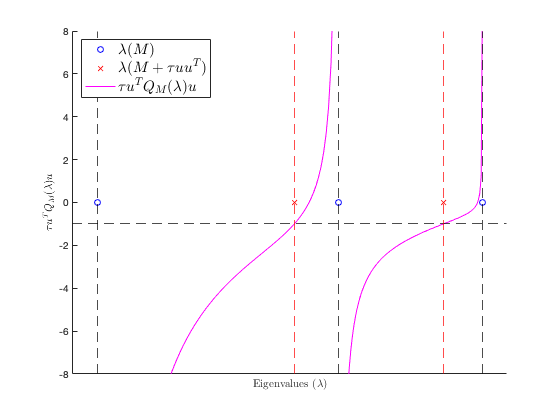
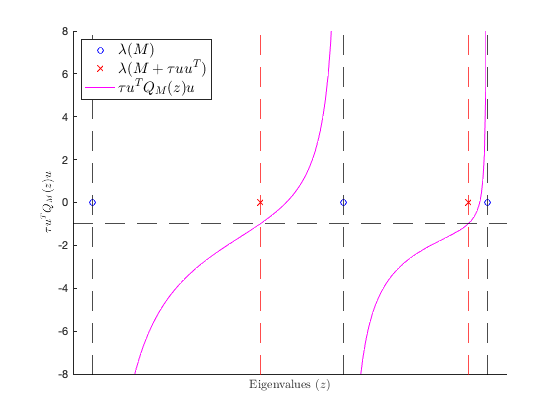
update

diff --git a/2.2.2/html/MP_and_SC.html b/2.2.2/html/MP_and_SC.html
@@ -6,7 +6,7 @@
    <!--
 This HTML was auto-generated from MATLAB code.
 To make changes, update the MATLAB code and republish this document.
-      --><title>Section 2.2.2: The Marcenko-Pastur and semi-circle laws</title><meta name="generator" content="MATLAB 9.6"><link rel="schema.DC" href="http://purl.org/dc/elements/1.1/"><meta name="DC.date" content="2020-06-27"><meta name="DC.source" content="MP_and_SC.m"><style type="text/css">
+      --><title>Section 2.2.2: The Marcenko-Pastur and semicircle laws</title><meta name="generator" content="MATLAB 9.8"><link rel="schema.DC" href="http://purl.org/dc/elements/1.1/"><meta name="DC.date" content="2021-01-11"><meta name="DC.source" content="MP_and_SC.m"><style type="text/css">
 html,body,div,span,applet,object,iframe,h1,h2,h3,h4,h5,h6,p,blockquote,pre,a,abbr,acronym,address,big,cite,code,del,dfn,em,font,img,ins,kbd,q,s,samp,small,strike,strong,sub,sup,tt,var,b,u,i,center,dl,dt,dd,ol,ul,li,fieldset,form,label,legend,table,caption,tbody,tfoot,thead,tr,th,td{margin:0;padding:0;border:0;outline:0;font-size:100%;vertical-align:baseline;background:transparent}body{line-height:1}ol,ul{list-style:none}blockquote,q{quotes:none}blockquote:before,blockquote:after,q:before,q:after{content:'';content:none}:focus{outine:0}ins{text-decoration:none}del{text-decoration:line-through}table{border-collapse:collapse;border-spacing:0}
 
 html { min-height:100%; margin-bottom:1px; }
@@ -23,7 +23,7 @@ a:visited { color:#004aa0; text-decoration:none; }
 
 p { padding:0px; margin:0px 0px 20px; }
 img { padding:0px; margin:0px 0px 20px; border:none; }
-p img, pre img, tt img, li img, h1 img, h2 img { margin-bottom:0px; } 
+p img, pre img, tt img, li img, h1 img, h2 img { margin-bottom:0px; }
 
 ul { padding:0px; margin:0px 0px 20px 23px; list-style:square; }
 ul li { padding:0px; margin:0px 0px 7px 0px; }
@@ -52,6 +52,7 @@ span.comment { color:#228B22 }
 span.string { color:#A020F0 }
 span.untermstring { color:#B20000 }
 span.syscmd { color:#B28C00 }
+span.typesection { color:#A0522D }
 
 .footer { width:auto; padding:10px 0px; margin:25px 0px 0px; border-top:1px dotted #878787; font-size:0.8em; line-height:140%; font-style:italic; color:#878787; text-align:left; float:none; }
 .footer p { margin:0px; }
@@ -66,48 +67,47 @@ table td { padding:7px 5px; text-align:left; vertical-align:top; border:1px soli
 
 
 
-  </style></head><body><div class="content"><h1>Section 2.2.2: The Marcenko-Pastur and semi-circle laws</h1><!--introduction--><p>This page contains simulations in Section 2.2.2.</p><!--/introduction--><h2>Contents</h2><div><ul><li><a href="#1">The Marcenko-Pastur law (Theorem 2.3&#65289;</a></li><li><a href="#3">The Wigner semi-circle law&#65288;Theorem 2.4)</a></li></ul></div><h2 id="1">The Marcenko-Pastur law (Theorem 2.3&#65289;</h2><p>Generate a (Gaussian) random matrix <img src="MP_and_SC_eq12362013959998143435.png" alt="$X$"> of dimension <img src="MP_and_SC_eq00624470566282429309.png" alt="$p \times n$">.</p><pre class="codeinput">close <span class="string">all</span>; clear; clc
+  </style></head><body><div class="content"><h1>Section 2.2.2: The Marcenko-Pastur and semicircle laws</h1><!--introduction--><p>This page contains simulations in Section 2.2.2.</p><!--/introduction--><h2>Contents</h2><div><ul><li><a href="#1">The Marcenko-Pastur law (Theorem 2.3&#65289;</a></li><li><a href="#3">The Wigner semicircle law&#65288;Theorem 2.4)</a></li></ul></div><h2 id="1">The Marcenko-Pastur law (Theorem 2.3&#65289;</h2><p>Generate a (Gaussian) random matrix <img src="MP_and_SC_eq12362013959998143435.png" alt="$X$" style="width:5px;height:4px;"> of dimension <img src="MP_and_SC_eq00624470566282429309.png" alt="$p \times n$" style="width:13px;height:4px;">.</p><pre class="codeinput">close <span class="string">all</span>; clear; clc
 
 coeff = 5;
 p = 100*coeff;
 n = 10000*coeff;
 c = p/n;
 
-rng(928);
 X = randn(p,n);
-</pre><p>Empirical eigenvalues of <img src="MP_and_SC_eq04476533116490492850.png" alt="$\frac1n X X^T$"> versus the Marcenko-Pastur law.</p><pre class="codeinput">SCM = X*(X')/n;
+</pre><p>Plot the empirical eigenvalues of <img src="MP_and_SC_eq08984418551852384101.png" alt="$\hat C = \frac1n X X^T$" style="width:56px;height:15px;"> versus the (limiting) Marcenko-Pastur law.</p><pre class="codeinput">SCM = X*(X')/n;
 a = (1-sqrt(c))^2;
 b = (1+sqrt(c))^2;
 edges=linspace(a-eps,b+eps,60);
 
 figure
-histogram(eig(SCM),edges, <span class="string">'Normalization'</span>, <span class="string">'pdf'</span>);
+histogram(eig(SCM),30, <span class="string">'Normalization'</span>, <span class="string">'pdf'</span>, <span class="string">'EdgeColor'</span>, <span class="string">'white'</span>);
 hold <span class="string">on</span>;
 mu=sqrt( max(edges-a,0).*max(b-edges,0) )/2/pi/c./edges;
 plot(edges,mu,<span class="string">'r'</span>, <span class="string">'Linewidth'</span>,2);
-legend(<span class="string">'Empirical eigenvalues'</span>, <span class="string">'Marcenko-Pastur law'</span>, <span class="string">'FontSize'</span>, 15)
+legend(<span class="string">'Empirical eigenvalues'</span>, <span class="string">'Marcenko-Pastur law'</span>, <span class="string">'Interpreter'</span>, <span class="string">'latex'</span>, <span class="string">'FontSize'</span>, 15)
+xlabel(<span class="string">'Eigenvalues of $\hat C$'</span>, <span class="string">'Interpreter'</span>, <span class="string">'latex'</span>, <span class="string">'FontSize'</span>, 15)
+ylabel(<span class="string">'Histogram'</span>, <span class="string">'Interpreter'</span>, <span class="string">'latex'</span>, <span class="string">'FontSize'</span>, 15)
 axis([0.7 1.3 0 4.5]);
-</pre><img vspace="5" hspace="5" src="MP_and_SC_01.png" alt=""> <h2 id="3">The Wigner semi-circle law&#65288;Theorem 2.4)</h2><p>Generate a (Gaussian) symmetric random matrix <img src="MP_and_SC_eq12362013959998143435.png" alt="$X$"> of size <img src="MP_and_SC_eq14662025674782596410.png" alt="$n \times n$">.</p><pre class="codeinput">close <span class="string">all</span>; clear; clc
+</pre><img vspace="5" hspace="5" src="MP_and_SC_01.png" alt=""> <h2 id="3">The Wigner semicircle law&#65288;Theorem 2.4)</h2><p>Generate a (Gaussian) <b>symmetric</b> random matrix <img src="MP_and_SC_eq12362013959998143435.png" alt="$X$" style="width:5px;height:4px;"> of size <img src="MP_and_SC_eq14662025674782596410.png" alt="$n \times n$" style="width:14px;height:3px;">.</p><pre class="codeinput">close <span class="string">all</span>; clear; clc
 
 coeff = 5;
 n=200*coeff;
 
-rng(928);
 Z=randn(n);
-Z_U = triu(Z);
 X = triu(Z) + triu(Z)'-diag(diag(triu(Z)));
-</pre><p>Empirical eigenvalues of <img src="MP_and_SC_eq10357368482456357479.png" alt="$\frac{X}{\sqrt{n}}$"> versus the semi-circle law.</p><pre class="codeinput">edges=linspace(-2-eps,2+eps,50);
+</pre><p>Plot the empirical eigenvalues of <img src="MP_and_SC_eq10357368482456357479.png" alt="$\frac{X}{\sqrt{n}}$" style="width:6px;height:8px;"> versus the limiting semicircle law.</p><pre class="codeinput">edges=linspace(-2-eps,2+eps,50);
 
 figure
-histogram(eig(X/sqrt(n)),edges,<span class="string">'Normalization'</span>,<span class="string">'pdf'</span>);
+histogram(eig(X/sqrt(n)),30,<span class="string">'Normalization'</span>,<span class="string">'pdf'</span>, <span class="string">'EdgeColor'</span>, <span class="string">'white'</span>);
 hold <span class="string">on</span>;
 mu = sqrt( max(4 - edges.^2,0) )/2/pi;
 plot(edges,mu,<span class="string">'r'</span>,<span class="string">'LineWidth'</span>,2);
-legend(<span class="string">'Empirical eigenvalues'</span>, <span class="string">'Wigner semi-circle law'</span>, <span class="string">'FontSize'</span>, 15)
-axis([-2.5 2.5 0 0.5]);
-</pre><img vspace="5" hspace="5" src="MP_and_SC_02.png" alt=""> <p class="footer"><br><a href="https://www.mathworks.com/products/matlab/">Published with MATLAB&reg; R2019a</a><br></p></div><!--
+legend(<span class="string">'Empirical eigenvalues'</span>, <span class="string">'Wigner semi-circle law'</span>, <span class="string">'Interpreter'</span>, <span class="string">'latex'</span>, <span class="string">'FontSize'</span>, 15);
+axis([-2.5 2.5 0 0.45]);
+</pre><img vspace="5" hspace="5" src="MP_and_SC_02.png" alt=""> <p class="footer"><br><a href="https://www.mathworks.com/products/matlab/">Published with MATLAB&reg; R2020a</a><br></p></div><!--
 ##### SOURCE BEGIN #####
-%% Section 2.2.2: The Marcenko-Pastur and semi-circle laws
+%% Section 2.2.2: The Marcenko-Pastur and semicircle laws
 % This page contains simulations in Section 2.2.2.
 
 %% The Marcenko-Pastur law (Theorem 2.3）
@@ -119,46 +119,44 @@ p = 100*coeff;
 n = 10000*coeff;
 c = p/n;
 
-rng(928);
 X = randn(p,n);
 %%
-% Empirical eigenvalues of $\frac1n X X^T$ versus the Marcenko-Pastur law.
+% Plot the empirical eigenvalues of $\hat C = \frac1n X X^T$ versus the (limiting) Marcenko-Pastur law.
 SCM = X*(X')/n;
 a = (1-sqrt(c))^2;
 b = (1+sqrt(c))^2;
 edges=linspace(a-eps,b+eps,60);
 
 figure
-histogram(eig(SCM),edges, 'Normalization', 'pdf');
+histogram(eig(SCM),30, 'Normalization', 'pdf', 'EdgeColor', 'white');
 hold on;
 mu=sqrt( max(edges-a,0).*max(b-edges,0) )/2/pi/c./edges;
 plot(edges,mu,'r', 'Linewidth',2);
-legend('Empirical eigenvalues', 'Marcenko-Pastur law', 'FontSize', 15)
+legend('Empirical eigenvalues', 'Marcenko-Pastur law', 'Interpreter', 'latex', 'FontSize', 15)
+xlabel('Eigenvalues of $\hat C$', 'Interpreter', 'latex', 'FontSize', 15)
+ylabel('Histogram', 'Interpreter', 'latex', 'FontSize', 15)
 axis([0.7 1.3 0 4.5]);
 
-%% The Wigner semi-circle law（Theorem 2.4)
-% Generate a (Gaussian) symmetric random matrix $X$ of size $n \times n$.
+%% The Wigner semicircle law（Theorem 2.4)
+% Generate a (Gaussian) *symmetric* random matrix $X$ of size $n \times n$.
 close all; clear; clc
 
 coeff = 5;
 n=200*coeff;
 
-rng(928);
 Z=randn(n);
-Z_U = triu(Z);
 X = triu(Z) + triu(Z)'-diag(diag(triu(Z)));
-
 %%
-% Empirical eigenvalues of $\frac{X}{\sqrt{n}}$ versus the semi-circle law.
+% Plot the empirical eigenvalues of $\frac{X}{\sqrt{n}}$ versus the limiting semicircle law.
 edges=linspace(-2-eps,2+eps,50);
 
 figure
-histogram(eig(X/sqrt(n)),edges,'Normalization','pdf');
+histogram(eig(X/sqrt(n)),30,'Normalization','pdf', 'EdgeColor', 'white');
 hold on;
 mu = sqrt( max(4 - edges.^2,0) )/2/pi;
 plot(edges,mu,'r','LineWidth',2);
-legend('Empirical eigenvalues', 'Wigner semi-circle law', 'FontSize', 15)
-axis([-2.5 2.5 0 0.5]);
+legend('Empirical eigenvalues', 'Wigner semi-circle law', 'Interpreter', 'latex', 'FontSize', 15);
+axis([-2.5 2.5 0 0.45]);
 
 ##### SOURCE END #####
 --></body></html>

diff --git a/2.2.1/html/lemma_plots.html b/2.2.1/html/lemma_plots.html
@@ -6,7 +6,7 @@
    <!--
 This HTML was auto-generated from MATLAB code.
 To make changes, update the MATLAB code and republish this document.
-      --><title>Section 2.2.1: Key Lemmas and identities</title><meta name="generator" content="MATLAB 9.6"><link rel="schema.DC" href="http://purl.org/dc/elements/1.1/"><meta name="DC.date" content="2020-06-27"><meta name="DC.source" content="lemma_plots.m"><style type="text/css">
+      --><title>Section 2.2.1: Key lemmas and identities</title><meta name="generator" content="MATLAB 9.8"><link rel="schema.DC" href="http://purl.org/dc/elements/1.1/"><meta name="DC.date" content="2021-04-22"><meta name="DC.source" content="lemma_plots.m"><style type="text/css">
 html,body,div,span,applet,object,iframe,h1,h2,h3,h4,h5,h6,p,blockquote,pre,a,abbr,acronym,address,big,cite,code,del,dfn,em,font,img,ins,kbd,q,s,samp,small,strike,strong,sub,sup,tt,var,b,u,i,center,dl,dt,dd,ol,ul,li,fieldset,form,label,legend,table,caption,tbody,tfoot,thead,tr,th,td{margin:0;padding:0;border:0;outline:0;font-size:100%;vertical-align:baseline;background:transparent}body{line-height:1}ol,ul{list-style:none}blockquote,q{quotes:none}blockquote:before,blockquote:after,q:before,q:after{content:'';content:none}:focus{outine:0}ins{text-decoration:none}del{text-decoration:line-through}table{border-collapse:collapse;border-spacing:0}
 
 html { min-height:100%; margin-bottom:1px; }
@@ -23,7 +23,7 @@ a:visited { color:#004aa0; text-decoration:none; }
 
 p { padding:0px; margin:0px 0px 20px; }
 img { padding:0px; margin:0px 0px 20px; border:none; }
-p img, pre img, tt img, li img, h1 img, h2 img { margin-bottom:0px; } 
+p img, pre img, tt img, li img, h1 img, h2 img { margin-bottom:0px; }
 
 ul { padding:0px; margin:0px 0px 20px 23px; list-style:square; }
 ul li { padding:0px; margin:0px 0px 7px 0px; }
@@ -52,6 +52,7 @@ span.comment { color:#228B22 }
 span.string { color:#A020F0 }
 span.untermstring { color:#B20000 }
 span.syscmd { color:#B28C00 }
+span.typesection { color:#A0522D }
 
 .footer { width:auto; padding:10px 0px; margin:25px 0px 0px; border-top:1px dotted #878787; font-size:0.8em; line-height:140%; font-style:italic; color:#878787; text-align:left; float:none; }
 .footer p { margin:0px; }
@@ -66,7 +67,7 @@ table td { padding:7px 5px; text-align:left; vertical-align:top; border:1px soli
 
 
 
-  </style></head><body><div class="content"><h1>Section 2.2.1: Key Lemmas and identities</h1><!--introduction--><p>This page contains simulations in Section 2.2.1.</p><!--/introduction--><h2>Contents</h2><div><ul><li><a href="#1">Illustration of Lemma 2.9</a></li></ul></div><h2 id="1">Illustration of Lemma 2.9</h2><pre class="codeinput">clear; close <span class="string">all</span>; clc;
+  </style></head><body><div class="content"><h1>Section 2.2.1: Key lemmas and identities</h1><!--introduction--><p>This page contains simulations in Section 2.2.1.</p><!--/introduction--><h2>Contents</h2><div><ul><li><a href="#1">Illustration of Lemma 2.9</a></li></ul></div><h2 id="1">Illustration of Lemma 2.9</h2><pre class="codeinput">clear; close <span class="string">all</span>; clc;
 
 coeff = 2;
 p = 200*coeff;
@@ -74,7 +75,7 @@ n = 500*coeff;
 
 X = randn(p,n);
 
-rng(828);
+rng(928);
 M = X*X'/n;
 u = ones(p,1)/sqrt(p);
 tau = 1;
@@ -114,16 +115,15 @@ xline(d_M_plus(eig_index),<span class="string">'--r'</span>);
 xline(d_M_plus(eig_index+1),<span class="string">'--r'</span>);
 axis([eig1-50*Tol eig3+50*Tol -8 8])
 set(gca,<span class="string">'xtick'</span>,[])
-xlabel(<span class="string">'Eigenvalues ($\lambda$)'</span>, <span class="string">'Interpreter'</span>, <span class="string">'latex'</span>)
-ylabel(<span class="string">'$\tau u^T Q_M(\lambda) u$'</span>, <span class="string">'Interpreter'</span>, <span class="string">'latex'</span>)
-legend([p1 p2 p3], <span class="string">'$\lambda(M)$'</span>, <span class="string">'$\lambda(M+ \tau uu^T)$'</span>, <span class="string">'$\tau u^T Q_M(\lambda) u$'</span>, <span class="string">'Interpreter'</span>, <span class="string">'latex'</span>, <span class="string">'FontSize'</span>, 15, <span class="string">'Location'</span>,<span class="string">'northwest'</span>)
-</pre><img vspace="5" hspace="5" src="lemma_plots_01.png" alt=""> <p class="footer"><br><a href="https://www.mathworks.com/products/matlab/">Published with MATLAB&reg; R2019a</a><br></p></div><!--
+xlabel(<span class="string">'Eigenvalues ($z$)'</span>, <span class="string">'Interpreter'</span>, <span class="string">'latex'</span>)
+ylabel(<span class="string">'$\tau u^T Q_M(z) u$'</span>, <span class="string">'Interpreter'</span>, <span class="string">'latex'</span>)
+legend([p1 p2 p3], <span class="string">'$\lambda(M)$'</span>, <span class="string">'$\lambda(M+ \tau uu^T)$'</span>, <span class="string">'$\tau u^T Q_M(z) u$'</span>, <span class="string">'Interpreter'</span>, <span class="string">'latex'</span>, <span class="string">'FontSize'</span>, 15, <span class="string">'Location'</span>,<span class="string">'northwest'</span>)
+</pre><img vspace="5" hspace="5" src="lemma_plots_01.png" alt=""> <p class="footer"><br><a href="https://www.mathworks.com/products/matlab/">Published with MATLAB&reg; R2020a</a><br></p></div><!--
 ##### SOURCE BEGIN #####
-%% Section 2.2.1: Key Lemmas and identities
+%% Section 2.2.1: Key lemmas and identities
 % This page contains simulations in Section 2.2.1.
 
 %% Illustration of Lemma 2.9
-
 clear; close all; clc; 
 
 coeff = 2;
@@ -132,7 +132,7 @@ n = 500*coeff;
 
 X = randn(p,n);
 
-rng(828);
+rng(928);
 M = X*X'/n;
 u = ones(p,1)/sqrt(p);
 tau = 1;
@@ -172,9 +172,9 @@ xline(d_M_plus(eig_index),'REPLACE_WITH_DASH_DASHr');
 xline(d_M_plus(eig_index+1),'REPLACE_WITH_DASH_DASHr');
 axis([eig1-50*Tol eig3+50*Tol -8 8])
 set(gca,'xtick',[])
-xlabel('Eigenvalues ($\lambda$)', 'Interpreter', 'latex')
-ylabel('$\tau u^T Q_M(\lambda) u$', 'Interpreter', 'latex')
-legend([p1 p2 p3], '$\lambda(M)$', '$\lambda(M+ \tau uu^T)$', '$\tau u^T Q_M(\lambda) u$', 'Interpreter', 'latex', 'FontSize', 15, 'Location','northwest')
+xlabel('Eigenvalues ($z$)', 'Interpreter', 'latex')
+ylabel('$\tau u^T Q_M(z) u$', 'Interpreter', 'latex')
+legend([p1 p2 p3], '$\lambda(M)$', '$\lambda(M+ \tau uu^T)$', '$\tau u^T Q_M(z) u$', 'Interpreter', 'latex', 'FontSize', 15, 'Location','northwest')
 
 
 

diff --git a/2.2.2/MP_and_SC.m b/2.2.2/MP_and_SC.m
@@ -1,4 +1,4 @@
-%% Section 2.2.2: The Marcenko-Pastur and semi-circle laws
+%% Section 2.2.2: The Marcenko-Pastur and semicircle laws
 % This page contains simulations in Section 2.2.2.
 
 %% The Marcenko-Pastur law (Theorem 2.3）
@@ -10,42 +10,41 @@ p = 100*coeff;
 n = 10000*coeff;
 c = p/n;
 
-rng(928);
 X = randn(p,n);
 %%
-% Empirical eigenvalues of $\frac1n X X^T$ versus the Marcenko-Pastur law.
+% Plot the empirical eigenvalues of $\hat C = \frac1n X X^T$ versus the (limiting) Marcenko-Pastur law.
 SCM = X*(X')/n;
 a = (1-sqrt(c))^2;
 b = (1+sqrt(c))^2;
 edges=linspace(a-eps,b+eps,60);
 
 figure
-histogram(eig(SCM),30, 'Normalization', 'pdf');
+histogram(eig(SCM),30, 'Normalization', 'pdf', 'EdgeColor', 'white');
 hold on;
 mu=sqrt( max(edges-a,0).*max(b-edges,0) )/2/pi/c./edges;
 plot(edges,mu,'r', 'Linewidth',2);
-legend('Empirical eigenvalues', 'Marcenko-Pastur law', 'FontSize', 15)
+legend('Empirical eigenvalues', 'Marcenko-Pastur law', 'Interpreter', 'latex', 'FontSize', 15)
+xlabel('Eigenvalues of $\hat C$', 'Interpreter', 'latex', 'FontSize', 15)
+ylabel('Histogram', 'Interpreter', 'latex', 'FontSize', 15)
 axis([0.7 1.3 0 4.5]);
 
-%% The Wigner semi-circle law（Theorem 2.4)
-% Generate a (Gaussian) symmetric random matrix $X$ of size $n \times n$.
+%% The Wigner semicircle law（Theorem 2.4)
+% Generate a (Gaussian) *symmetric* random matrix $X$ of size $n \times n$.
 close all; clear; clc
 
 coeff = 5;
 n=200*coeff;
 
-rng(928);
 Z=randn(n);
 X = triu(Z) + triu(Z)'-diag(diag(triu(Z)));
-
 %%
-% Empirical eigenvalues of $\frac{X}{\sqrt{n}}$ versus the semi-circle law.
+% Plot the empirical eigenvalues of $\frac{X}{\sqrt{n}}$ versus the limiting semicircle law.
 edges=linspace(-2-eps,2+eps,50);
 
 figure
-histogram(eig(X/sqrt(n)),30,'Normalization','pdf');
+histogram(eig(X/sqrt(n)),30,'Normalization','pdf', 'EdgeColor', 'white');
 hold on;
 mu = sqrt( max(4 - edges.^2,0) )/2/pi;
 plot(edges,mu,'r','LineWidth',2);
-legend('Empirical eigenvalues', 'Wigner semi-circle law', 'FontSize', 15)
-axis([-2.5 2.5 0 0.5]);
+legend('Empirical eigenvalues', 'Wigner semi-circle law', 'Interpreter', 'latex', 'FontSize', 15);
+axis([-2.5 2.5 0 0.45]);

diff --git a/2.2.1/lemma_plots.m b/2.2.1/lemma_plots.m
@@ -1,8 +1,7 @@
-%% Section 2.2.1: Key Lemmas and identities
+%% Section 2.2.1: Key lemmas and identities
 % This page contains simulations in Section 2.2.1.
 
 %% Illustration of Lemma 2.9
-
 clear; close all; clc; 
 
 coeff = 2;
@@ -11,7 +10,7 @@ n = 500*coeff;
 
 X = randn(p,n);
 
-rng(828);
+rng(928);
 M = X*X'/n;
 u = ones(p,1)/sqrt(p);
 tau = 1;
@@ -51,8 +50,8 @@ xline(d_M_plus(eig_index),'--r');
 xline(d_M_plus(eig_index+1),'--r');
 axis([eig1-50*Tol eig3+50*Tol -8 8])
 set(gca,'xtick',[])
-xlabel('Eigenvalues ($\lambda$)', 'Interpreter', 'latex')
-ylabel('$\tau u^T Q_M(\lambda) u$', 'Interpreter', 'latex')
-legend([p1 p2 p3], '$\lambda(M)$', '$\lambda(M+ \tau uu^T)$', '$\tau u^T Q_M(\lambda) u$', 'Interpreter', 'latex', 'FontSize', 15, 'Location','northwest')
+xlabel('Eigenvalues ($z$)', 'Interpreter', 'latex')
+ylabel('$\tau u^T Q_M(z) u$', 'Interpreter', 'latex')
+legend([p1 p2 p3], '$\lambda(M)$', '$\lambda(M+ \tau uu^T)$', '$\tau u^T Q_M(z) u$', 'Interpreter', 'latex', 'FontSize', 15, 'Location','northwest')
 
 
